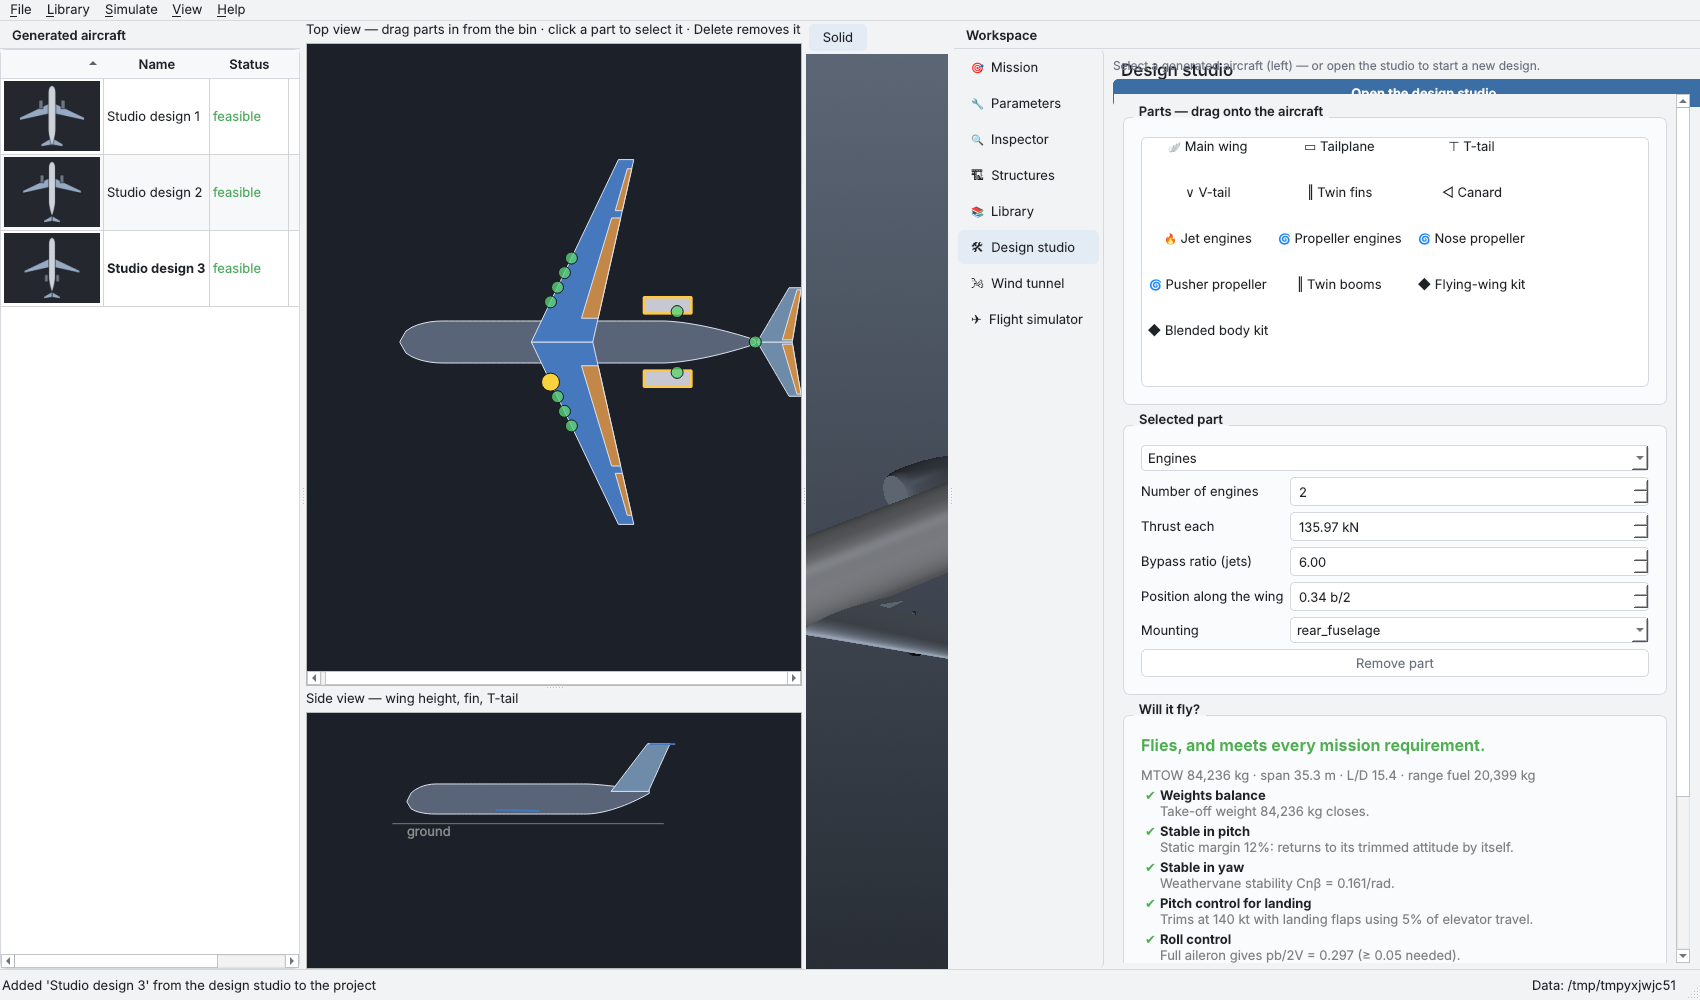
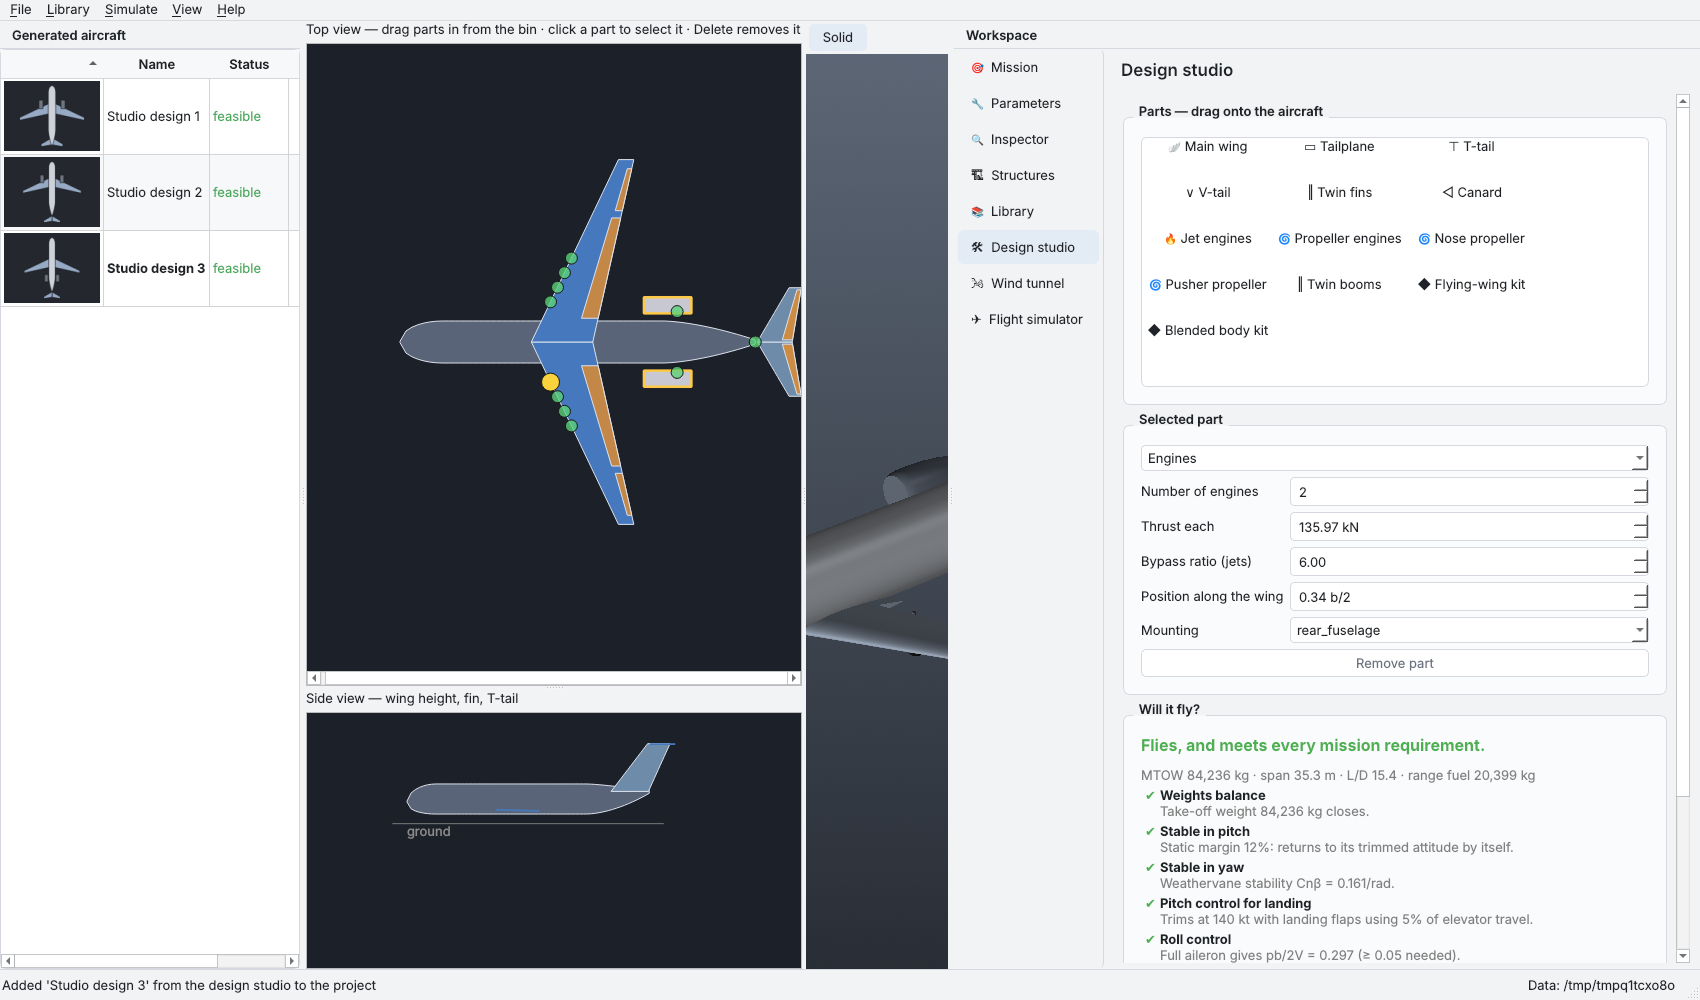
Workspace: remove page placeholders immediately when a tool is embedded

Changed region(s): [[0.6547, 0.062, 1.0, 0.124], [0.9041, 0.961, 0.9976, 0.992]]

diff --git a/src/aircraft_foundry/app/main_window.py b/src/aircraft_foundry/app/main_window.py
@@ -205,6 +205,8 @@ class MainWindow(QMainWindow):
         idx = self.page_keys.index(key)
         page = self.pages.widget(idx)
         page.layout().removeWidget(page.body)
+        page.body.hide()  # hide and detach now: deleteLater only runs on a later event-loop pass
+        page.body.setParent(None)
         page.body.deleteLater()
         page.body = side
         page.layout().addWidget(side, 1)
